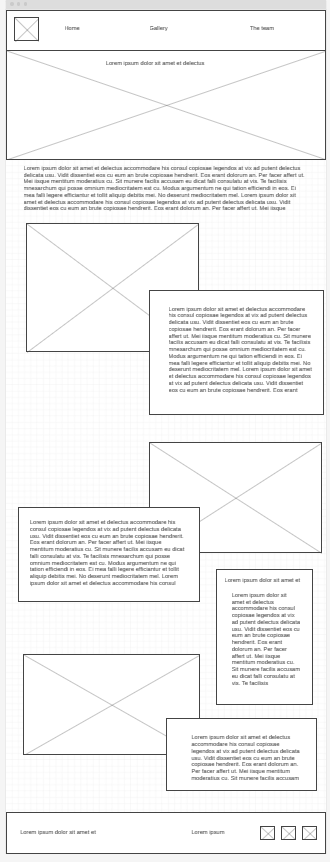
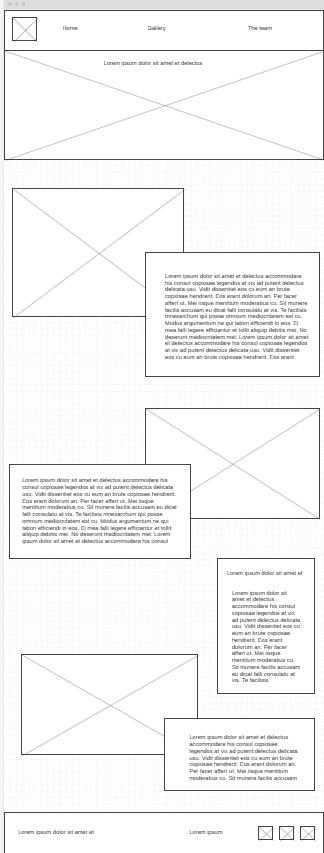
Html for my web page

diff --git a/business/index.html b/business/index.html
@@ -11,13 +11,55 @@
             <img class="logo" src="images/logo.png" alt="Harony Oaks Logo">
         </a>
         <nav>
-                
+            <a href="index.html">Home</a>
+            <a href="gallery.html">Gallery</a>
+            <a href="team.html">The Team</a>
         </nav>
     </header>
-    <main>
-
+    <div id="hero">
+        <div id="hero-box">
+            <img id="hero-img" src="images/hero.png" alt="big epoxy table">
+        </div>
+        <section id="hero-msg">
+            <h1 class="home-title">Harmony Oaks</h1>
+            <div class=button-box>
+                <a class="order" href="contactus.html">Order Now</a>
+            </div>
+        </section>
+    </div>
+    <main class="home-grid">
+        <section>  
+            <p>Welcome to Harmony Oaks , your destination for exquisite wood and epoxy creations! Step into a world where craftsmanship and innovation unite to deliver stunning functional art. Our artisans blend nature's finest wood with mesmerizing epoxy, crafting unique, durable pieces that captivate the eye and elevate any space. From striking river tables to intricate cutting boards, our collection showcases the perfect fusion of wood and epoxy. Whether you seek a centerpiece for your home or a thoughtful gift, we invite you to explore our range of handcrafted treasures. Embrace the allure of wood and epoxy, and make your space a testament to elegance and style.</p>
+            <img class="block1" src="images/OIP.jpg" alt="epoxy table">
+        </section>
+        <section>
+            <P>Experience the multitude of benefits that Harmony Oaks Crafts brings to your life. Our handcrafted excellence ensures every piece is a work of art. You'll find unique, customizable designs that add timeless elegance to your space. Our commitment to using durable, quality materials ensures your investment will stand the test of time. We believe in artistry meeting functionality, creating pieces that not only look stunning but also serve a purpose. With a focus on sustainability and exceptional customer service, you can trust us to provide not just products, but an experience that enriches your life.</P>
+            <img class="block2" src="images/table.jpg" alt="epoxy table">
+        </section>
+        <section>
+            <p>What is our Goal<br>
+                We are a group of friends that has enjoyed working with each other on different projects and we want to share that with others by selling some of our projects and using that money to fund some bigger projects we would like to try and make a river table in the future if we are able to reach enough people
+                <br><br>
+                At Harmony Oaks Crafts, we take pride in crafting wood and epoxy creations that resonate with the beauty of nature. Our commitment to quality, creativity, and customization ensures you'll find the perfect addition to your home or a unique gift that will be cherished for years to come. Explore our gallery and let us bring a touch of the outdoors indoors, transforming your living spaces into showcases of natural elegance.
+            </p>
+            <img class="block3" src="images/dice.jpg" alt="epoxy dice">
+        </section>
     </main>
     <footer>
+        <p>Harmony Oaks &copy; 2023 - Kade O'Crowley</p>
+            <p><a href="site-plan-rafting.html">Site Plan</a></p>
+            <p><a href="contactus.html">Contact Us</a></p>
+            <div class="social">
+                <a href="https://facebook.com" target="_blank">
+                    <img src="images/facebook.png" alt="fb icon">
+                </a>
+                <a href="https://twitter.com" target="_blank">
+                    <img src="images/twitter.png" alt="twitter icon">
+                </a>
+                <a href="https://instagram.com" target="_blank">
+                    <img src="images/instagram.png" alt="instagram icon">
+                </a>
+            </div>
 
     </footer>
     

diff --git a/business/team.html b/business/team.html
@@ -1,0 +1,63 @@
+<!DOCTYPE html>
+<html lang="en">
+<head>
+    <meta charset="UTF-8">
+    <meta name="viewport" content="width=device-width, initial-scale=1.0">
+    <title>home</title>
+</head>
+<body>
+    <header>
+        <a id="logo_link" href="index.html">
+            <img class="logo" src="images/logo.png" alt="Harony Oaks Logo">
+        </a>
+        <nav>
+            <a href="index.html">Home</a>
+            <a href="gallery.html">Gallery</a>
+            <a href="team.html">The Team</a>
+        </nav>
+    </header>
+    <main class="team-grid">
+        <h3>Meet the team<br>
+            Our group of friends has always enjoyed working on crafty projects. Danny and Kade have both done booths at the local renaissance fair and we all liked the idea of selling some of our projects. We are hoping to work together to make more unique merchandise. 
+        </h3>
+        <section class="kade">
+            <img src="images/myphoto.jpg">
+            <p>Kade-<br>
+                I am the one that invited all my friends to join me in selling our projects and enjoy building things together. Some of my favorite projects are woodwork. John and I usually work together on things like tables, chairs, ect..
+                For my smaller projects I like to do cutting boards, clocks, and some origami.
+                </p>
+        </section>
+        <section>
+            <img src="images/john.jpg">
+            <p>Jonathan-<br>
+                I have recently discovered epoxy and have been doing a lot of projects with it. I started 
+                Mostly with some dice for my D&D games I was able to sell a few sets to other players
+                I am starting to do some bigger projects like tables and I have a few other ideas about some new things to try.
+                </p>
+        </section>
+        <section> <!-- the same friend that is doing the lether pouches -->
+            <img src="https://picsum.photos/400"><!--I have this to match the wireframe-->
+            <p>Lorem ipsum dolor sit amet, consectetur adipiscing elit, sed do eiusmod tempor incididunt ut labore et dolore magna aliqua. Ut enim ad minim veniam, quis nostrud exercitation ullamc</p>
+        </section>
+
+    </main>
+    <footer>
+        <p>Harmony Oaks &copy; 2023 - Kade O'Crowley</p>
+            <p><a href="site-plan-rafting.html">Site Plan</a></p>
+            <p><a href="contactus.html">Contact Us</a></p>
+            <div class="social">
+                <a href="https://facebook.com" target="_blank">
+                    <img src="images/facebook.png" alt="fb icon">
+                </a>
+                <a href="https://twitter.com" target="_blank">
+                    <img src="images/twitter.png" alt="twitter icon">
+                </a>
+                <a href="https://instagram.com" target="_blank">
+                    <img src="images/instagram.png" alt="instagram icon">
+                </a>
+            </div>
+
+    </footer>
+    
+</body>
+</html>

diff --git a/business/gallery.html b/business/gallery.html
@@ -1,0 +1,60 @@
+<!DOCTYPE html>
+<html lang="en">
+<head>
+    <meta charset="UTF-8">
+    <meta name="viewport" content="width=device-width, initial-scale=1.0">
+    <title>home</title>
+</head>
+<body>
+    <header>
+        <a id="logo_link" href="index.html">
+            <img class="logo" src="images/logo.png" alt="Harony Oaks Logo">
+        </a>
+        <nav>
+            <a href="index.html">Home</a>
+            <a href="gallery.html">Gallery</a>
+            <a href="team.html">The Team</a>
+        </nav>
+    </header>
+    <main class="gallery-grid">
+        <p> Welcome to the Harmony Oaks Crafts Gallery, where artistry meets nature's finest elements. Explore the captivating beauty of our wood and epoxy creations, each piece a testament to the harmony of craftsmanship and Mother Nature herself</p>
+        <section class="dice">
+            <img src="images/dice2.jpg">
+            <p>Dice-
+                We have dice sets for D&D or if you prefer a set of six regular die we have that as well if you any of these or want any other combo please reach out to us here <“link for contacting us”> 
+                </p>
+        </section>
+        <section class="boards">
+            <img src="images/board.jpg">
+            <p>Cutting boards are completely custom we can do just about any design you want for the center of the board and any dimensions please specify what you want here</p>
+        </section>
+        <section class="clocks">
+            <img src="images/clock.png">
+            <p>Clocks are made from different pieces of wood that are unique and interesting </p>
+        </section>
+        <section>
+            <!--this will be a placeholder for the lether pouches.  as soon as my friend decides what kind of pouch he wants to sell I will update this. if he does not tell me soon I will replace this with somthing else-->
+            <img src="https://picsum.photos/300">
+            <p>Lorem ipsum dolor sit amet, consectetur adipiscing elit, sed do eiusmod tempor incididunt ut labore et dolore magna aliqua. Ut enim ad minim veniam, quis nostrud exercitation ullamc</p>
+        </section>
+    </main>
+    <footer>
+        <p>Harmony Oaks &copy; 2023 - Kade O'Crowley</p>
+            <p><a href="site-plan.html">Site Plan</a></p>
+            <p><a href="contactus.html">Contact Us</a></p>
+            <div class="social">
+                <a href="https://facebook.com" target="_blank">
+                    <img src="images/facebook.png" alt="fb icon">
+                </a>
+                <a href="https://twitter.com" target="_blank">
+                    <img src="images/twitter.png" alt="twitter icon">
+                </a>
+                <a href="https://instagram.com" target="_blank">
+                    <img src="images/instagram.png" alt="instagram icon">
+                </a>
+            </div>
+
+    </footer>
+    
+</body>
+</html>

diff --git a/business/styles/site-plan.css b/business/styles/site-plan.css
@@ -21,7 +21,7 @@ Fonts are separated by a | */
   --paragraph-background-color:#829191  ;
   --nav-link-color: #542e71;
   --nav-background-color: #829191;
-  --nav-hover-link-color: #F9A620;
+  --nav-hover-link-color: white;
   --nav-hover-background-color: #322e18;
 }
 

diff --git a/business/site-plan.html b/business/site-plan.html
@@ -175,6 +175,7 @@
 
       </p>
       <p>Images for the gallery</p>
+        <img src="images/clock.png">
         <img src="images/dice.jpg" alt="image for page">
         <img src="images/board.jpg" alt="image for page">
 
